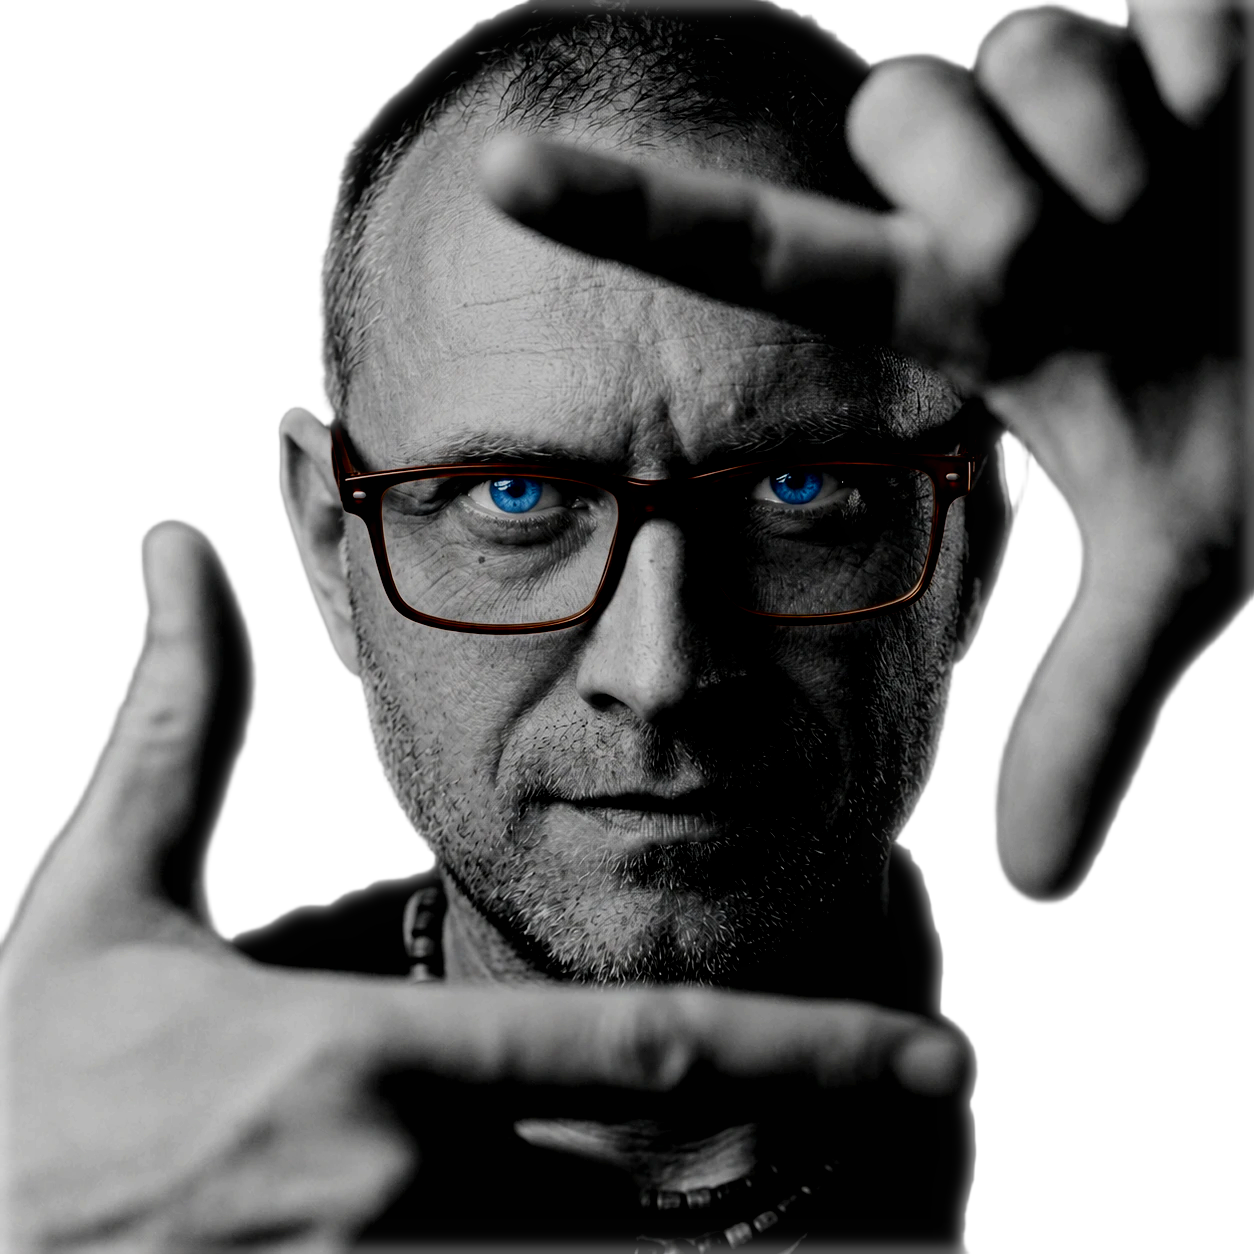
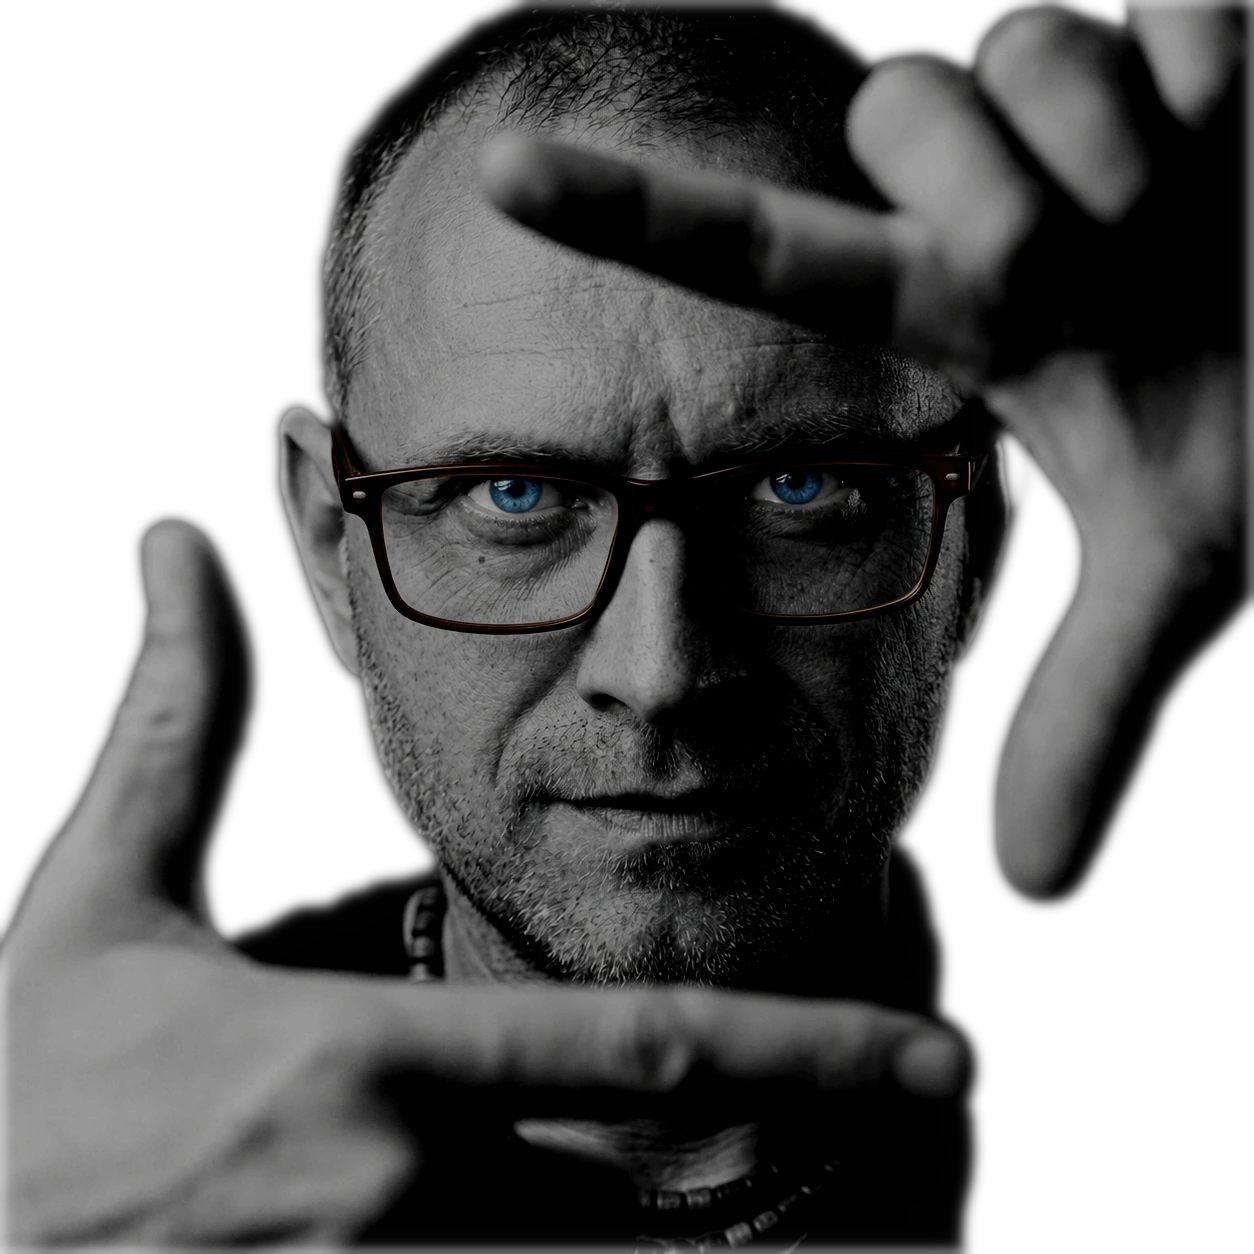
Photo: regenerate from scratch with deep darken (0.38 brightness, 2.1 contrast, desaturated) + ring opacity -40% to match reference portrait
Claude-Session: https://claude.ai/code/session_01X7KSM4KdRvb3cH9kiQoQVN

diff --git a/museum-app/src/components/Scene3D.jsx b/museum-app/src/components/Scene3D.jsx
@@ -22,7 +22,7 @@ const KEYFRAMES = [
     modelRot: [0, -0.15, 0],
     ringPos: [0.38, 0.10, -0.02],
     ringScale: 0.72,
-    ringOpacity: 0.55,
+    ringOpacity: 0.32,
     dofFocus: 0.12,
     ambientIntensity: 0.18,
     lightIntensity: 1.2,
@@ -35,7 +35,7 @@ const KEYFRAMES = [
     modelRot: [0, 0.08, 0],
     ringPos: [0.42, 0.10, -0.02],
     ringScale: 0.68,
-    ringOpacity: 0.45,
+    ringOpacity: 0.28,
     dofFocus: 0.10,
     ambientIntensity: 0.25,
     lightIntensity: 2.2,
@@ -48,7 +48,7 @@ const KEYFRAMES = [
     modelRot: [0, -0.05, 0],
     ringPos: [0.52, 0.10, -0.02],
     ringScale: 0.72,
-    ringOpacity: 0.52,
+    ringOpacity: 0.30,
     dofFocus: 0.12,
     ambientIntensity: 0.35,
     lightIntensity: 2.8,
@@ -65,7 +65,7 @@ const MOBILE_KEYFRAMES = [
     modelRot: [0, -0.15, 0],
     ringPos: [0, 0.08, -0.02],
     ringScale: 0.65,
-    ringOpacity: 0.55,
+    ringOpacity: 0.32,
     dofFocus: 0.12,
     ambientIntensity: 0.18,
     lightIntensity: 1.2,
@@ -78,7 +78,7 @@ const MOBILE_KEYFRAMES = [
     modelRot: [0, 0.08, 0],
     ringPos: [0.05, 0.08, -0.02],
     ringScale: 0.62,
-    ringOpacity: 0.45,
+    ringOpacity: 0.28,
     dofFocus: 0.10,
     ambientIntensity: 0.25,
     lightIntensity: 2.2,
@@ -91,7 +91,7 @@ const MOBILE_KEYFRAMES = [
     modelRot: [0, -0.05, 0],
     ringPos: [0.08, 0.08, -0.02],
     ringScale: 0.65,
-    ringOpacity: 0.52,
+    ringOpacity: 0.30,
     dofFocus: 0.12,
     ambientIntensity: 0.35,
     lightIntensity: 2.8,
